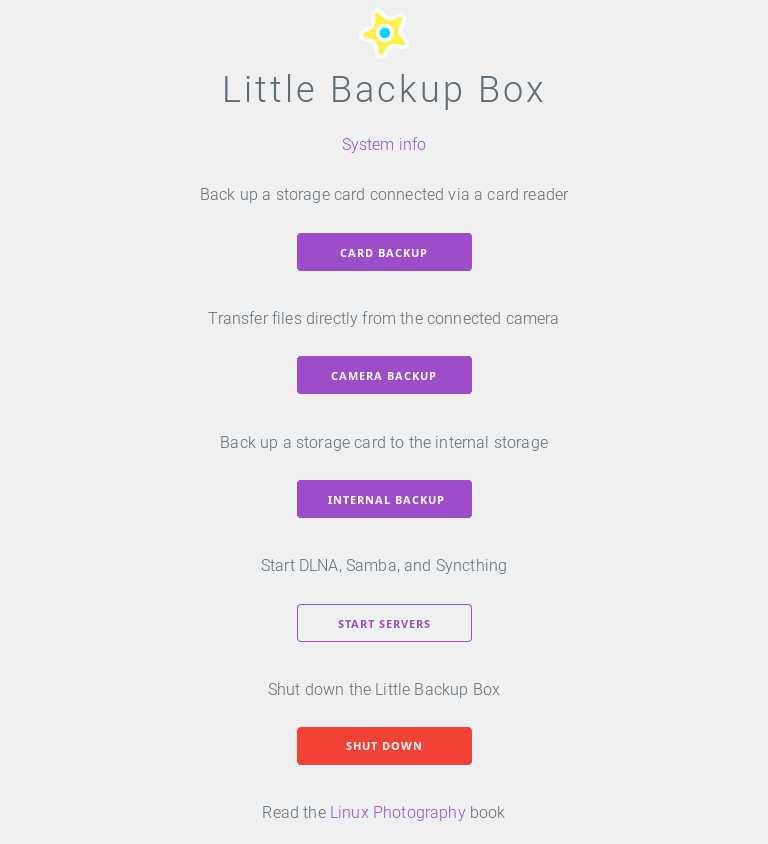
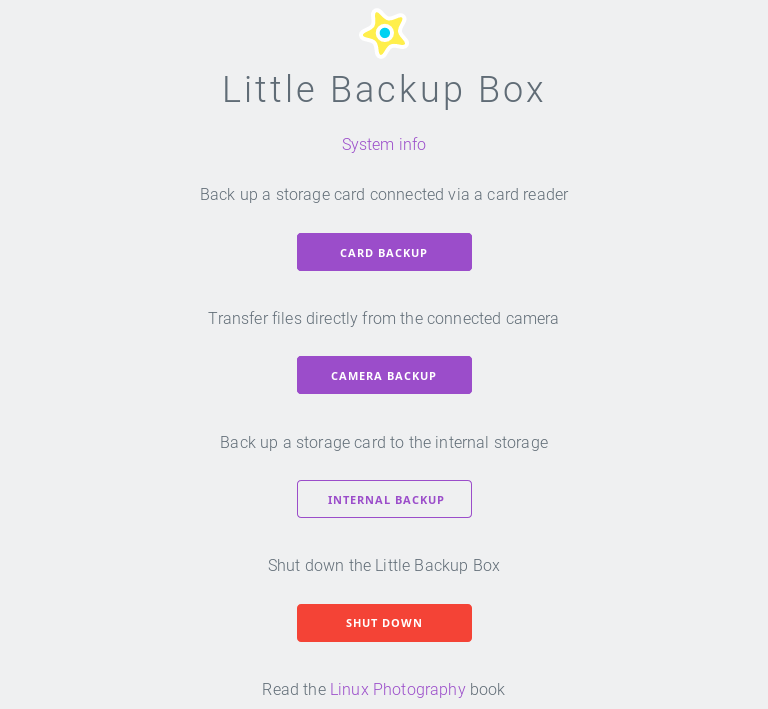
Restart servers on boot

diff --git a/scripts/index.php b/scripts/index.php
@@ -49,13 +49,7 @@
 	    <p>Back up a storage card to the internal storage</p>
             <p>
 		<form method="post">
-                    <button name="internalbackup">Internal backup</button>
-		</form>
-            </p>
-	    <p>Start DLNA, Samba, and Syncthing</p>
-            <p>
-		<form method="post">
-                    <button class="button button-outline" name="servers">Start servers</button>
+                    <button class="button button-outline" name="internalbackup">Internal backup</button>
 		</form>
             </p>
             <p class="left">Shut down the Little Backup Box</p>
@@ -86,19 +80,6 @@
 		echo '<script language="javascript">';
 		echo 'alert("Camera backup initiated.")';
 		echo '</script>';
-	    }
-	    if (isset($_POST['servers']))
-	    {
-		shell_exec('sudo ./start-servers.sh > /dev/null 2>&1 & echo $!');
-		sleep(5); # Give Syncthing time to start
-		echo '<script language="javascript">';
-		echo 'alert("DLNA, Samba, and Syncthing are up and running.")';
-		echo '</script>';
-		exec("pgrep syncthing", $pids);
-		if( !empty($pids)) {
-		    $ip=shell_exec("hostname -I | cut -d' ' -f1");
-                    echo '<p><a href="http://'.$ip.':8384">Syncthing server</a></p>';
-		}
 	    }
 	    if (isset($_POST['shutdown']))
 	    {
